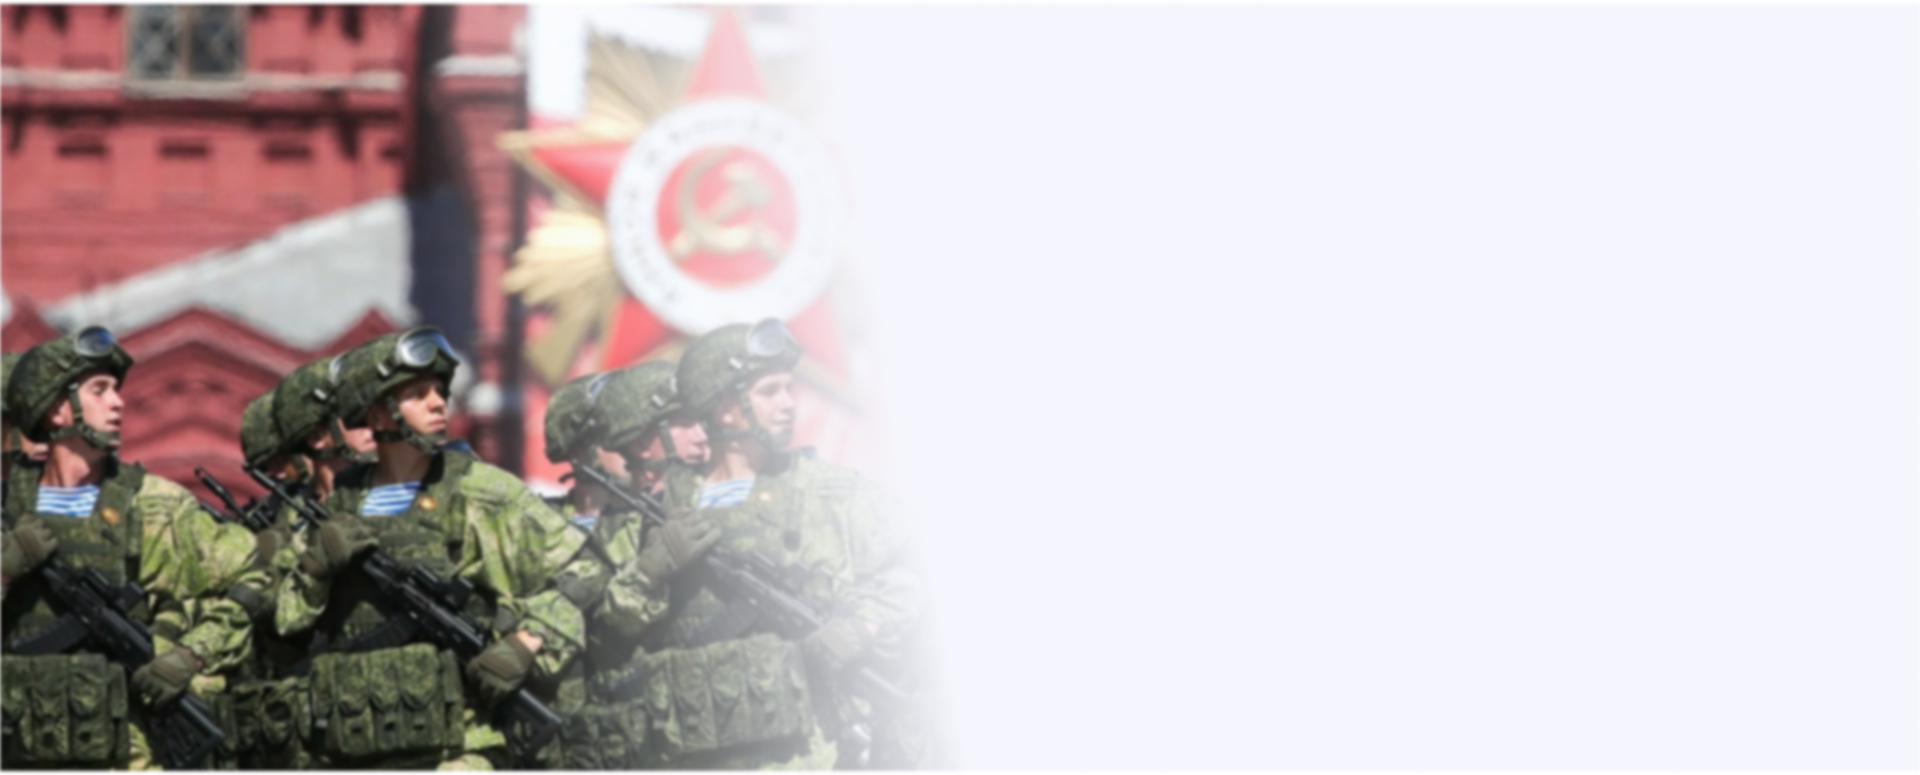
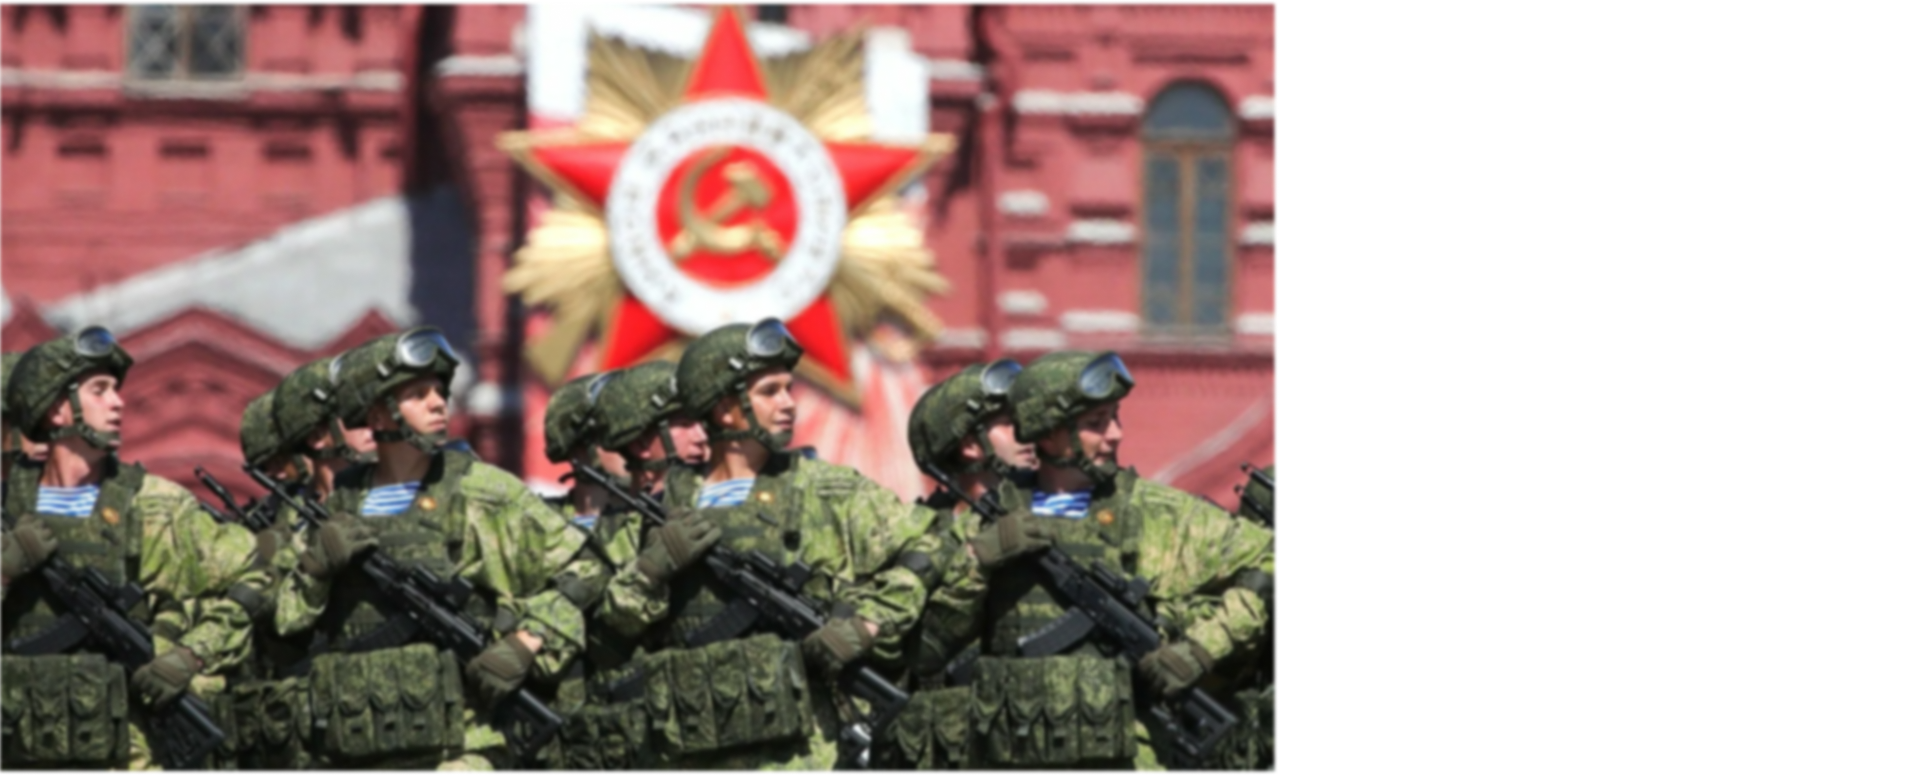
update adaptive hemostatic

diff --git a/src/scss/_hemostatic.scss b/src/scss/_hemostatic.scss
@@ -606,7 +606,6 @@
 //.hemostatic-multiplication
 //========================================================================================================================================================
 .hemostatic-multiplication {
-  
   background-position: center;
   background-repeat: no-repeat;
   background-size: cover;
@@ -624,9 +623,14 @@
   }
   // .hemostatic-multiplication__title
   &__title {
-    h3 {
-      font-size: rem(32);
-      line-height: math.div(45 , 32);
+    font-size: rem(32);
+    line-height: math.div(45 , 32);
+    // @media (max-width:$tablet){
+    //   font-size: rem(32);
+    // }
+
+    @media (max-width:$mobileSmall){
+      @include adaptiveValue("font-size", 32, 20, 480, 420, 1);
     }
   }
   //.hemostatic-multiplication__content
@@ -726,6 +730,9 @@
     @media (max-width: em(1180)){
       display: none;
     }
+  }
+  @media (max-width:$tablet){
+    background-position: 100% 230px;
   }
 }
 //========================================================================================================================================================
@@ -854,11 +861,32 @@
 //.hemostatic-benefit
 //========================================================================================================================================================
 .hemostatic-benefit {
+  position: relative;
   background-color: $bg;
-  background-image: url(../img/hemostatic/hemostatic-benefit-bg.png);
+
   background-repeat: no-repeat;
   background-size: cover;
   background-position: center;
+  z-index: 1;
+  &::before{
+    content:'';
+    position: absolute;
+    background: linear-gradient(94deg, #F5F6FD 53.1%, rgba(245, 246, 253, 0.00) 75.25%);
+    width: 60%;
+    height: 105%;
+    right: 25%;
+    top: -23px;
+    filter: blur(2px);
+    -moz-transform: scale(-1, -1);
+    -o-transform: scale(-1, -1);
+    -webkit-transform: scale(-1, -1);
+    transform: scale(-1, -1);
+    z-index: -1;
+    @media (max-width: em(1260)){
+      right: 15%;
+      width: 95%;
+    }
+  }
   // .hemostatic-benefit__container
   &__container {
     padding-top: 40px;
@@ -866,6 +894,9 @@
     display: flex;
     flex-direction: column;
     align-items: flex-end;
+    @media (max-width:$tablet){
+      padding-bottom: 311px;
+    }
   }
   // .hemostatic-benefit__inner
   &__inner {
@@ -873,6 +904,11 @@
     display: flex;
     flex-direction: column;
     row-gap: 20px;
+    @media (max-width:$tablet){
+      max-width: 100%;
+      // flex-basis: 780px;
+      min-height: 670px;
+    }
   }
   // .hemostatic-benefit__title
   &__title {
@@ -880,6 +916,9 @@
     @extend %mont-700;
     font-size: rem(30);
     line-height: math.div(42 , 30);
+    @media (max-width:$tablet){
+      max-width: 100%;
+    }
   }
   // .hemostatic-benefit__list
   &__list {
@@ -922,6 +961,29 @@
     font-size: rem(16);
     line-height: math.div(26 , 16);
     color: $black;
+  }
+  @media (max-width:$tablet){
+    background-size: 151%;
+    background-position: 0 428px;
+    &::before{
+    background: linear-gradient(179deg, #F5F6FD 57.15%, rgba(245, 246, 253, 0.00) 86.49%);;
+    width: 100%;
+    filter: blur(2px);
+    left: 0;
+    -moz-transform: scale(1, 1);
+    -o-transform: scale(1, 1);
+    -webkit-transform: scale(1, 1);
+    transform: scale(1, 1);
+      @media (max-width:$mobile){
+        top: 60px; 
+      }
+      @media (max-width: em(560)){
+        top: 140px;
+      }
+    }
+  }
+  @media (max-width:$mobile){
+    background-position: 0 100%; 
   }
 }
 

diff --git a/src/hemostatic.html b/src/hemostatic.html
@@ -230,7 +230,7 @@
 				</section>
 				<!-- end hemostatic-documents -->
 				<!-- start hemostatic-benefit -->
-				<section class="hemostatic-benefit">
+				<section class="hemostatic-benefit" style="background-image: url(../img/hemostatic/hemostatic-benefit-bg.png);">
 					<div class="hemostatic-benefit__container">
 						<div class="hemostatic-benefit__inner">
 							<div class="hemostatic-benefit__title title">
